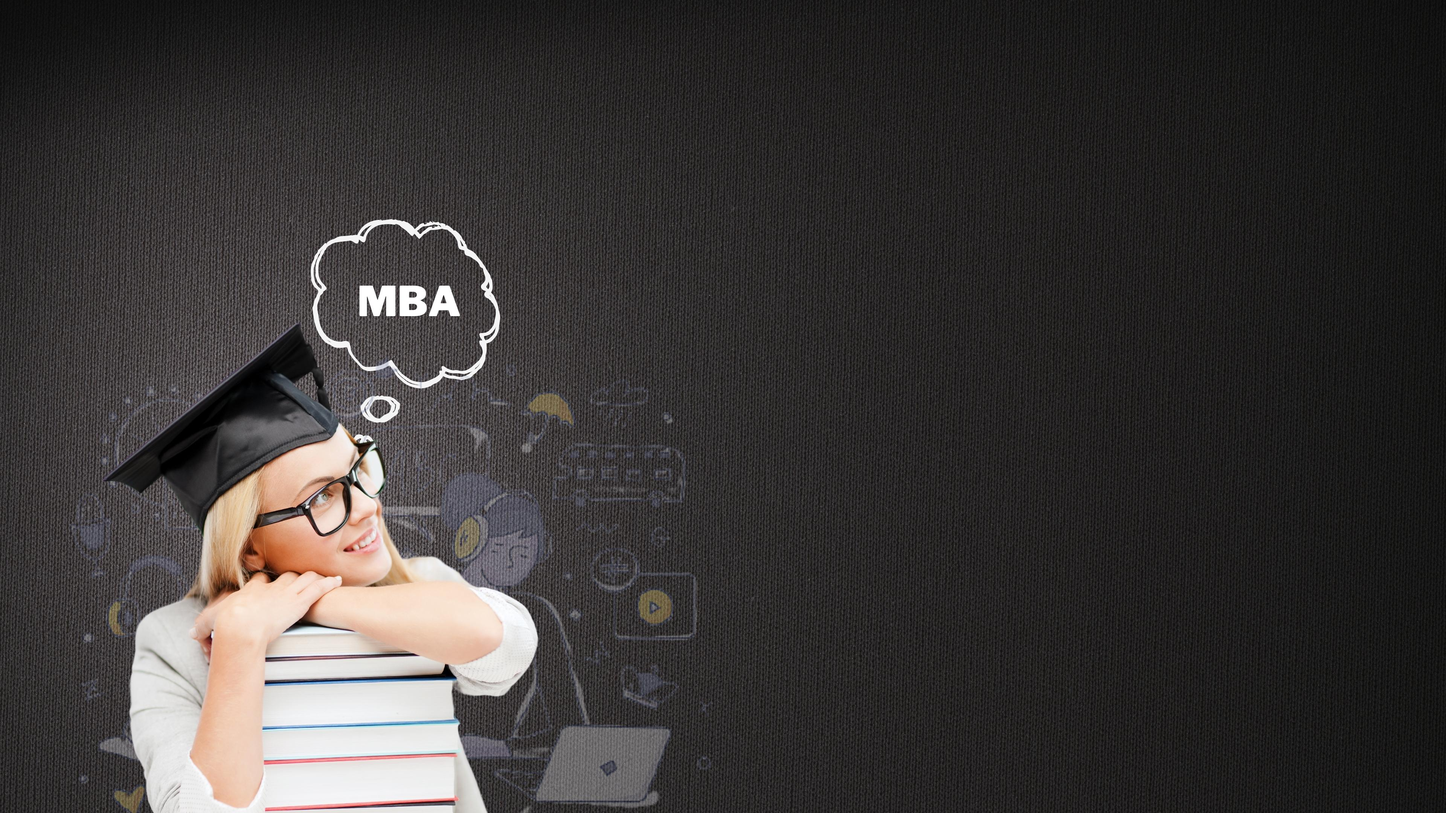
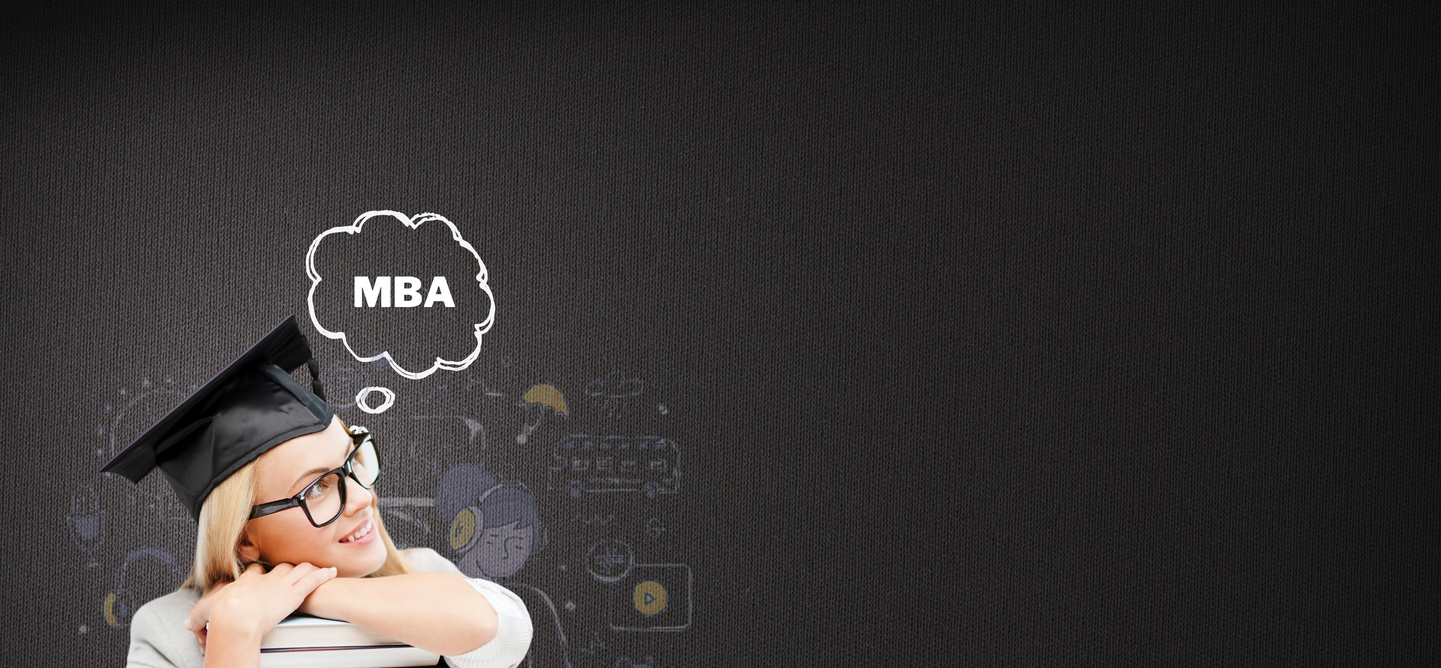
changes done asap

Changed region(s): [[0.0, 0.0931, 0.7463, 1.0]]

diff --git a/index-3.html b/index-3.html
@@ -194,7 +194,7 @@
 
 		<!-- HERO-3
 			============================================= -->
-		<section id="hero-3" class="bg-scroll hero-section division">
+		<section id="hero-3" style=" background-image: linear-gradient(rgba(0, 0, 0, 0.3), rgba(0, 0, 0, 0.3)), url(../images/OP2.jpg);" class="bg-scroll hero-section division">
 			<div class="container">
 				<div class="row">
 

diff --git a/index.html b/index.html
@@ -194,7 +194,7 @@
 
 		<!-- HERO-3
 			============================================= -->
-		<section id="hero-3" class="bg-scroll hero-section division">
+		<section id="hero-3" style=" background-image: linear-gradient(rgba(0, 0, 0, 0.3), rgba(0, 0, 0, 0.3)), url(../images/MBA.gif);" class="bg-scroll hero-section division">
 			<div class="container">
 				<div class="row">
 

diff --git a/index-2.html b/index-2.html
@@ -194,7 +194,7 @@
 
 		<!-- HERO-3
 			============================================= -->
-		<section id="hero-3" class="bg-scroll hero-section division">
+		<section id="hero-3"  class="bg-scroll hero-section division">
 			<div class="container">
 				<div class="row">
 
